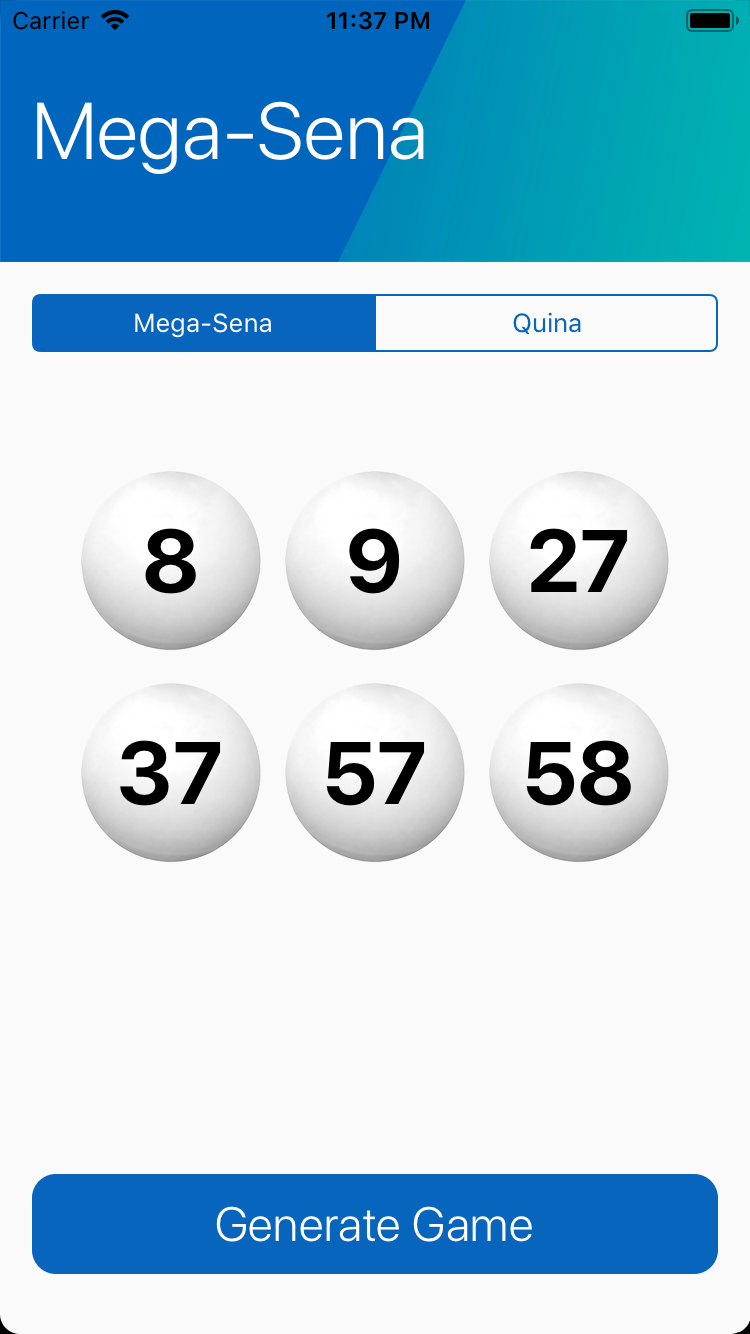
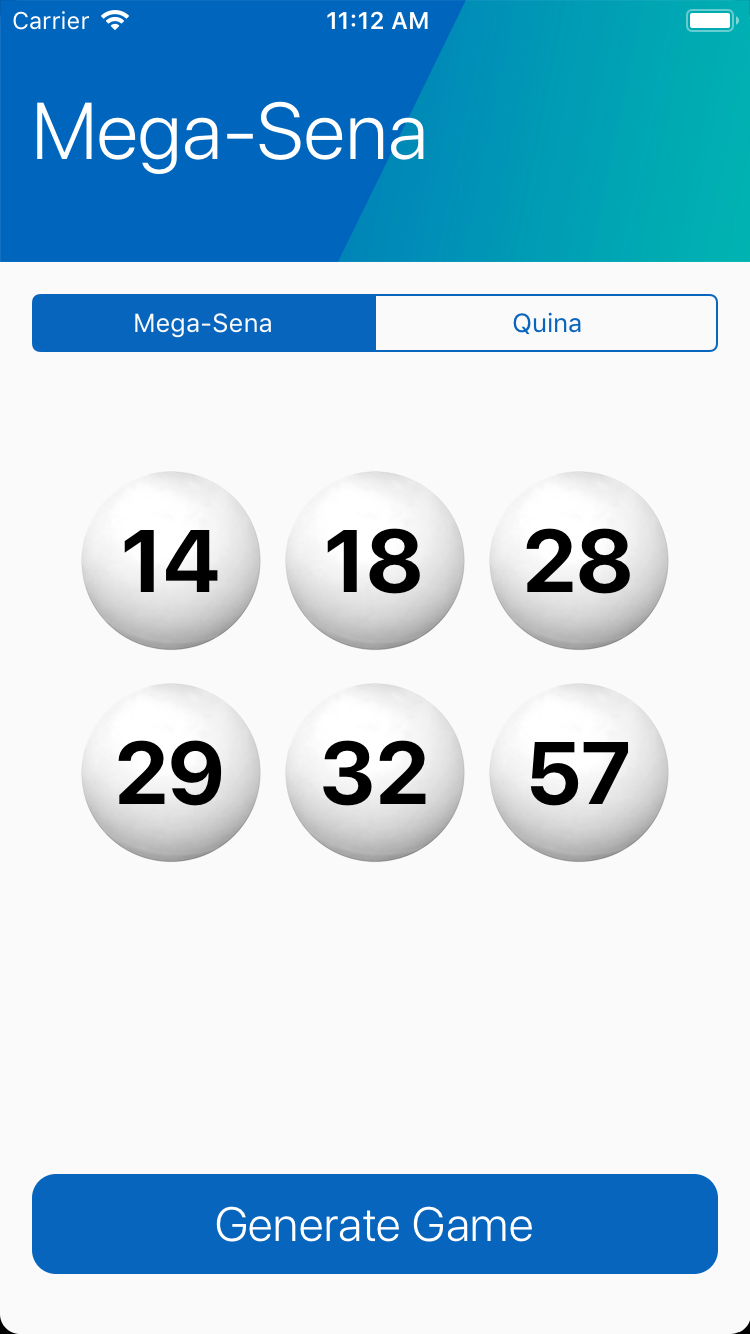
change status bar color

diff --git a/easyLottery/ViewController.swift b/easyLottery/ViewController.swift
@@ -22,6 +22,11 @@ func >-< (total: Int, universe:Int ) -> [Int] {
 
 class ViewController: UIViewController {
     
+    //change status bar color to white
+    override var preferredStatusBarStyle: UIStatusBarStyle {
+        return .lightContent
+    }
+    
     enum GameType: String {
         case megasena = "Mega-Sena"
         case quina = "Quina"
